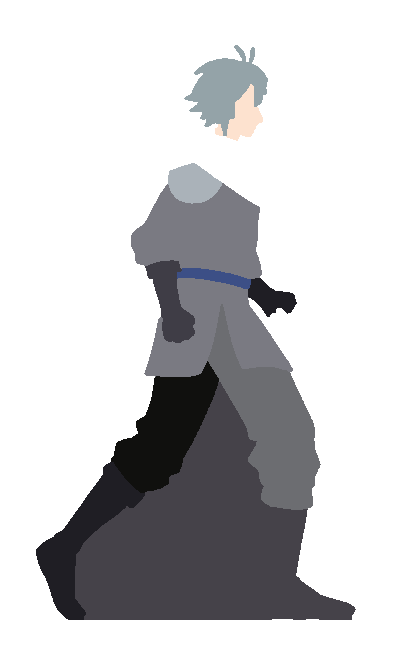
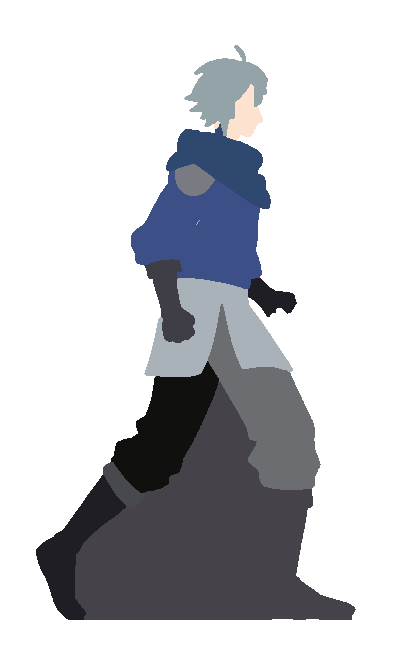
added textures input files and texturing rounding

diff --git a/src/postprocessing.cpp b/src/postprocessing.cpp
@@ -1,0 +1,143 @@
+#include "postprocessing.h"
+#include <Eigen/Sparse>
+#include <map>
+#include <cmath>
+
+using SpMat = Eigen::SparseMatrix<double>;
+using Triplet = Eigen::Triplet<double>;
+
+std::vector<std::vector<PostProcessing::UV>>
+PostProcessing::textureRounding(
+    const std::vector<std::vector<UV>> &uv,
+    const QImage &segmentation,
+    const std::vector<std::vector<QVector3D>> &normals)
+{
+    int h = uv.size();
+    int w = uv[0].size();
+
+    auto result = uv;
+
+    // ---------------------------------
+    // Build regions from segmentation
+    // ---------------------------------
+    std::map<QRgb, std::vector<QPoint>> regions;
+
+    for (int y = 0; y < h; ++y)
+    {
+        for (int x = 0; x < w; ++x)
+        {
+            QRgb c = segmentation.pixel(x, y);
+            if (c == qRgb(0, 0, 0))
+                continue; // skip background if needed
+            regions[c].push_back(QPoint(x, y));
+        }
+    }
+
+    // ---------------------------------
+    // 2. Solve per region
+    // ---------------------------------
+    for (const auto &[color, pixels] : regions)
+    {
+        int n = pixels.size();
+        if (n < 10)
+            continue;
+
+        // map pixel -> local index
+        std::map<QPoint, int> idx;
+        for (int i = 0; i < n; ++i)
+            idx[pixels[i]] = i;
+
+        std::vector<Triplet> triplets;
+        Eigen::VectorXd bu(n), bv(n);
+        bu.setZero();
+        bv.setZero();
+
+        for (int i = 0; i < n; ++i)
+        {
+            int x = pixels[i].x();
+            int y = pixels[i].y();
+
+            double diag = 0.0;
+            bool isBoundary = false;
+
+            const int dx[4] = {1, -1, 0, 0};
+            const int dy[4] = {0, 0, 1, -1};
+
+            for (int k = 0; k < 4; ++k)
+            {
+                int nx = x + dx[k];
+                int ny = y + dy[k];
+
+                if (nx < 0 || ny < 0 || nx >= w || ny >= h)
+                    continue;
+
+                if (segmentation.pixel(nx, ny) != color)
+                {
+                    isBoundary = true;
+                    continue;
+                }
+
+                int j = idx[QPoint(nx, ny)];
+
+                // weight from normals
+                double hi = std::sqrt(
+                    normals[y][x].x() * normals[y][x].x() +
+                    normals[y][x].y() * normals[y][x].y());
+
+                double hj = std::sqrt(
+                    normals[ny][nx].x() * normals[ny][nx].x() +
+                    normals[ny][nx].y() * normals[ny][nx].y());
+
+                double diff = hi - hj;
+                double w_ij = 1.0 / std::sqrt(1.0 + diff * diff);
+
+                triplets.emplace_back(i, j, -w_ij);
+                diag += w_ij;
+            }
+
+            if (isBoundary)
+            {
+                // Dirichlet constraint
+                triplets.emplace_back(i, i, 1.0);
+                bu[i] = uv[y][x].u;
+                bv[i] = uv[y][x].v;
+            }
+            else
+            {
+                triplets.emplace_back(i, i, diag);
+            }
+        }
+
+        // ---------------------------------
+        // Solve region
+        // ---------------------------------
+        SpMat L(n, n);
+        L.setFromTriplets(triplets.begin(), triplets.end());
+
+        Eigen::SimplicialLDLT<SpMat> solver;
+        solver.compute(L);
+
+        if (solver.info() != Eigen::Success)
+            continue;
+
+        Eigen::VectorXd fu = solver.solve(bu);
+        Eigen::VectorXd fv = solver.solve(bv);
+
+        if (solver.info() != Eigen::Success)
+            continue;
+
+        // ---------------------------------
+        // Write back
+        // ---------------------------------
+        for (int i = 0; i < n; ++i)
+        {
+            int x = pixels[i].x();
+            int y = pixels[i].y();
+
+            result[y][x].u = fu[i];
+            result[y][x].v = fv[i];
+        }
+    }
+
+    return result;
+}

diff --git a/src/textoon.cpp b/src/textoon.cpp
@@ -95,9 +95,10 @@ void Textoon::processFrames(const QString &inputFolder)
     for (const QFileInfo& f : texFiles)
     {
         bool ok = false;
-        QRgb color = f.baseName().toUInt(&ok, 16);
+        uint rgb = f.baseName().toUInt(&ok, 16);
         if (ok)
         {
+            QRgb color = rgb | 0xFF000000;
             QImage tex(f.absoluteFilePath());
             if (!tex.isNull())
                 textureMap[color] = tex.convertToFormat(QImage::Format_RGB32);
@@ -116,6 +117,7 @@ void Textoon::processFrames(const QString &inputFolder)
     QDir().mkpath(debugDir);
 
     prev.scribbles = loadInitialScribbles(inputFolder);
+    prev.scribbles = dilateScribbles(prev.scribbles, 2);
     prev.scribbles.save(debugDir + "/scribbles_0000.png");
 
     // get lazybrush segmentation
@@ -157,6 +159,7 @@ void Textoon::processFrames(const QString &inputFolder)
 
         // Transfer scribbles
         curr.scribbles = warpImage(prev.scribbles, W);
+        curr.scribbles = dilateScribbles(curr.scribbles, 2);
         curr.scribbles.save(debugDir + "/scribbles_" + frameId + ".png");
 
         // LazyBrush segmentation
@@ -444,6 +447,39 @@ QImage Textoon::warpImage(
     }
 
     return dst;
+}
+
+QImage Textoon::dilateScribbles(const QImage& img, int radius)
+{
+    int w = img.width();
+    int h = img.height();
+
+    QImage out = img.copy();
+
+    for (int y = 0; y < h; ++y)
+    {
+        for (int x = 0; x < w; ++x)
+        {
+            QColor c(img.pixel(x, y));
+            if (c.alpha() == 0) continue;
+
+            for (int dy = -radius; dy <= radius; ++dy)
+            {
+                for (int dx = -radius; dx <= radius; ++dx)
+                {
+                    int nx = x + dx;
+                    int ny = y + dy;
+
+                    if (nx < 0 || nx >= w || ny < 0 || ny >= h)
+                        continue;
+
+                    out.setPixelColor(nx, ny, c);
+                }
+            }
+        }
+    }
+
+    return out;
 }
 
 QImage Textoon::applySegmentationColors(

diff --git a/lazybrush/lazybrush_components/palette.cpp b/lazybrush/lazybrush_components/palette.cpp
@@ -18,11 +18,11 @@
 unsigned char
 the_palette[128][3] =
 {
-    {  148,  163,  168 }, // start palete
-    { 253, 226,   207 },
-    {   47, 72,   112 },
-    {   170, 178, 185 },
-    {   122,   122, 130 },
+    {  148,  163,  168 }, // hair
+    { 253, 226,   207 }, // skin
+    {   47, 72,   112 }, //scarf
+    {   170, 178, 185 }, // metal plate
+    {   122,   122, 130 }, // shirt + skirt thing
     { 255,   0, 255 },
     { 0, 255, 255 },
     { 255, 255, 255 },
@@ -34,15 +34,15 @@ the_palette[128][3] =
     { 153, 153, 153 },
     { 140, 140, 140 },
     { 128, 128, 128 },
-    { 63,   61,   70 },
-    { 31, 30,   36 },
-    {   60, 79,   134 },
-    {   53, 51, 46 },
-    {   108,   109, 113 },
-    { 69,   66, 73 },
-    { 16, 16, 14 },
-    { 72, 73, 76 },
-    {  31,  30,  36 },
+    { 63,   61,   70 }, // front glove
+    { 31, 30,   36 }, // back glove
+    {   60, 79,   134 }, // belt
+    {   53, 51, 46 }, // front pant
+    {   108,   109, 113 }, // front boot fold
+    { 69,   66, 73 }, // front boot
+    { 16, 16, 14 }, // back pant
+    { 72, 73, 76 }, // back boot fold
+    {  31,  30,  36 }, // back boot
     {  255,  0,  0 }, // end palete
     {  0,  255,  0 },
     {  76,  76,  76 },

diff --git a/src/postprocessing.h b/src/postprocessing.h
@@ -1,0 +1,22 @@
+#ifndef POSTPROCESSING_H
+#define POSTPROCESSING_H
+#pragma once
+#include <QImage>
+#include <QVector3D>
+#include <vector>
+
+class PostProcessing
+{
+public:
+    struct UV
+    {
+        float u, v;
+    };
+
+    static std::vector<std::vector<UV>> textureRounding(
+        const std::vector<std::vector<UV>> &uv,
+        const QImage &segmentation,
+        const std::vector<std::vector<QVector3D>> &normals);
+};
+
+#endif // POSTPROCESSING_H

diff --git a/src/textoon.h b/src/textoon.h
@@ -50,6 +50,8 @@ private:
         const QImage& src,
         const std::vector<std::vector<QPointF>>& W12);
 
+    QImage dilateScribbles(const QImage& img, int radius);
+
     QImage applySegmentationColors(
         const QImage& lineArt,
         const QImage& segmentation);
